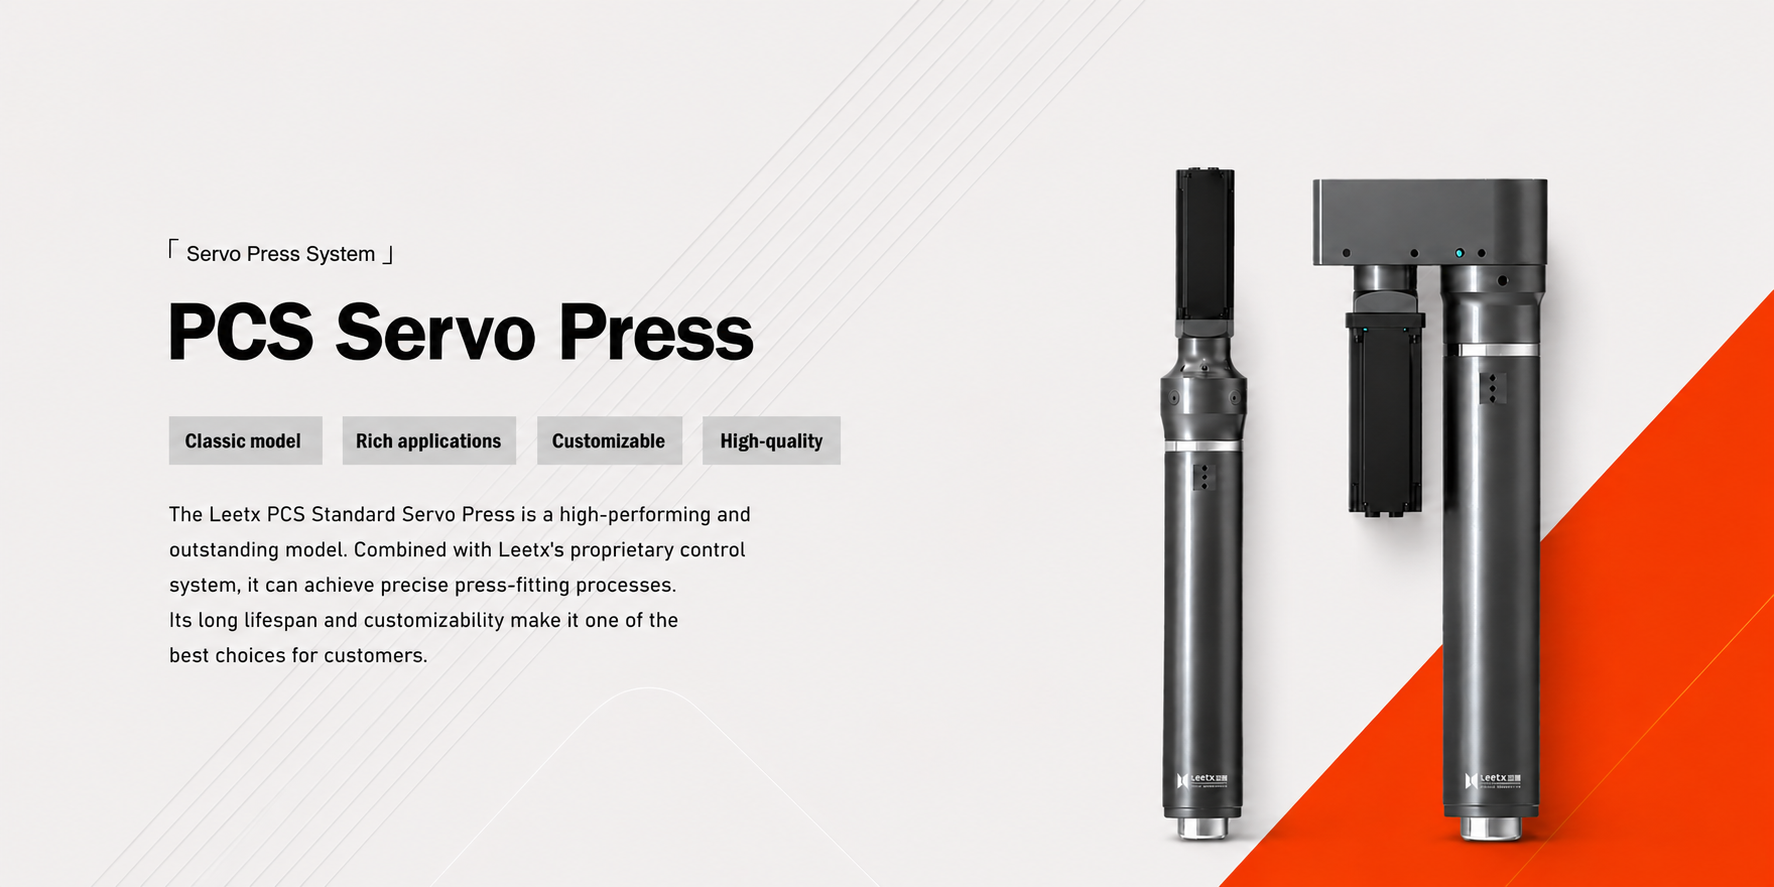
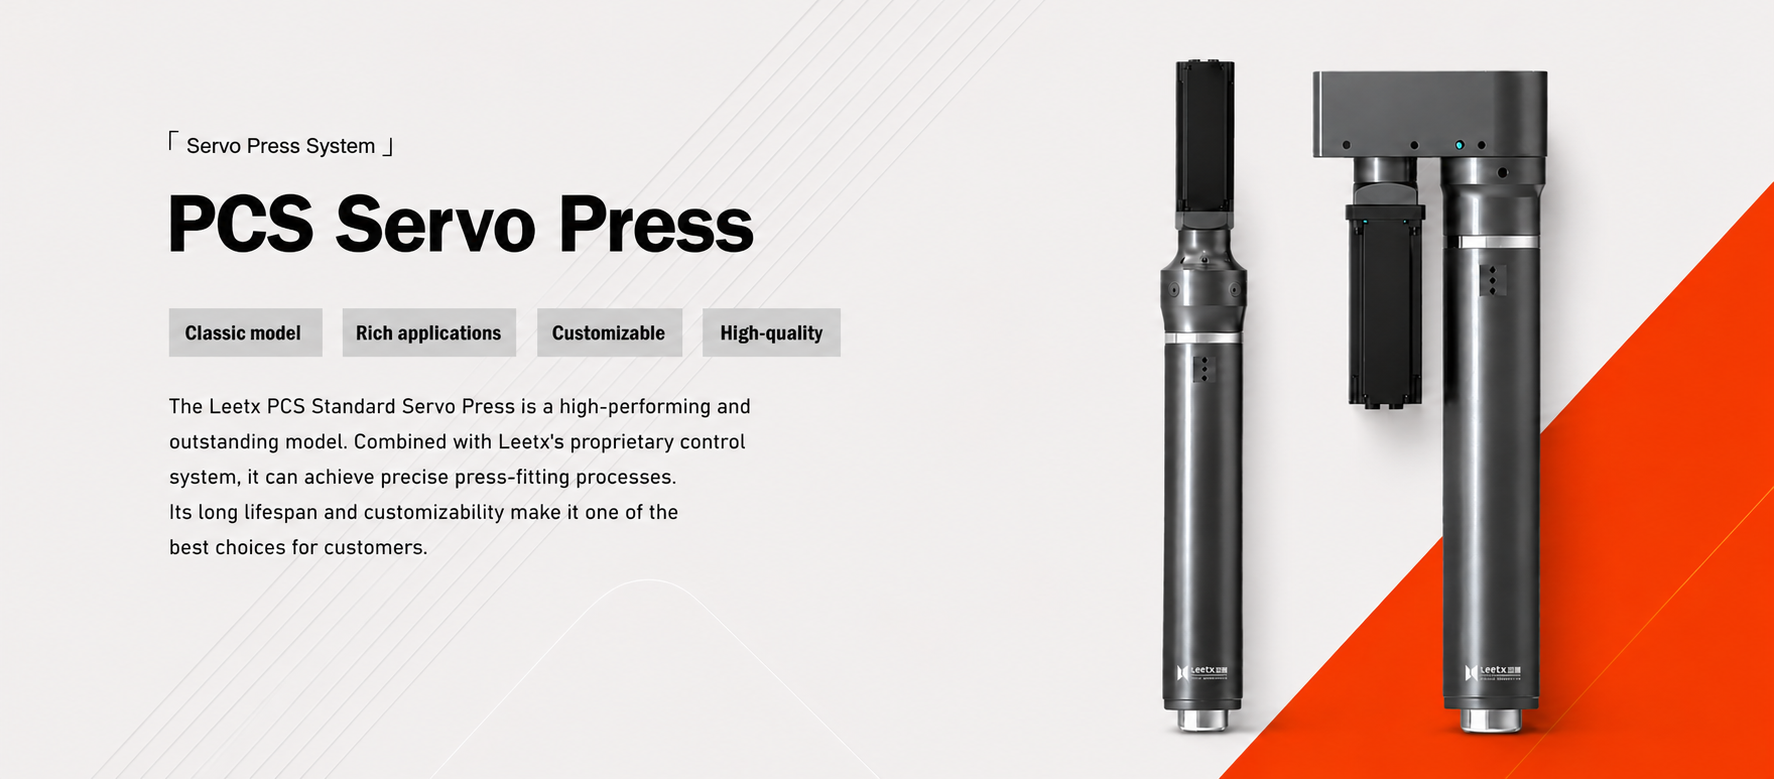
first commit

diff --git a/200l-barrel-pump.html b/200l-barrel-pump.html
@@ -605,6 +605,13 @@
                                 </div>
                             </div>
 
+                            <style>
+                              .fa-map-marker-alt:before {
+    content: "\f3c5";
+    color: #ffffff;
+}
+                            </style>
+
                             <!-- CARD 2 -->
                             <div class="col-lg-4 col-md-6">
                                 <div class="feature-card">

diff --git a/index.html b/index.html
@@ -1782,7 +1782,7 @@ function updateSlideNumber(swiper) {
                   desc: "Centron barrel supply system and pumps deliver medium to high viscosityfluid directly from original packaging barrel to transfer station or meteringsystem to avoid the risks associated with secondary packaging or transferring.",
                   image:
                     "https://www.centronsys.com/en/web/upload/2025/09/08/17572994453611gfld0.png",
-                  link: "200l-feed-platen-pump.html",
+                  link: "200l-barrel-pump.html",
                 },
 
                 {
@@ -1822,7 +1822,7 @@ function updateSlideNumber(swiper) {
                   desc: "Centron transfer system provides material pretreatment in order to deliverymore stable material, enhance metering system stability and enable con-venient replacement of material barrels, without disrupting production.",
                   image:
                     "https://www.centronsys.com/en/web/upload/2024/10/25/172982898633330lytd.png",
-                  link: "transfer-system.html",
+                  link: "transfer-module.html",
                 },
 
                 

diff --git a/about.html b/about.html
@@ -390,7 +390,7 @@
                                 <div class="section-title text-white mb-70">
                                     <span class="sub-title" data-aos="fade-down" data-aos-duration="1000">Our Strength
                                         in Numbers</span>
-                                    <h2 class="text-anm">Delivering Reliable Industrial Automation Solutions</h2>
+                                    <h2 class="text-anm" style="color: #fff;">Delivering Reliable Industrial Automation Solutions</h2>
                                 </div>
                             </div>
                             <!-- <div class="col-lg-6">

diff --git a/controller.html b/controller.html
@@ -822,6 +822,8 @@
   </div>
 </div>
 
+<br>
+
 <script>
   const tabItems = document.querySelectorAll(".tab-item");
   const tabContents = document.querySelectorAll(".tab-content");

diff --git a/efs-fixtured-spindle.html b/efs-fixtured-spindle.html
@@ -262,7 +262,7 @@
                 <!--======  Start Page Hero Section  ======-->
 <div class="single-banner">
     <img 
-        src="assets/images/products/fixtured-spindle.png"
+        src="assets/images/products/fixtured-spindle2.png"
         class="img-fluid"
         alt="banner"
     >

diff --git a/ewa-angle-cordless-nutrunner.html b/ewa-angle-cordless-nutrunner.html
@@ -262,7 +262,7 @@
                 <!--======  Start Page Hero Section  ======-->
 <div class="single-banner">
     <img 
-        src="assets/images/products/ewa-angle.png"
+        src="assets/images/products/ewa-angle2.png"
         class="img-fluid"
         alt="banner"
     >

diff --git a/ewp-pistol-cordless-tool.html b/ewp-pistol-cordless-tool.html
@@ -259,7 +259,7 @@
                 <!--======  Start Page Hero Section  ======-->
 <div class="single-banner">
     <img 
-        src="assets/images/products/cordless-tool.png"
+        src="assets/images/products/cordless-tool2.png"
         class="img-fluid"
         alt="banner"
     >

diff --git a/secondary-pump.html b/secondary-pump.html
@@ -259,7 +259,7 @@
                 <!--======  Start Page Hero Section  ======-->
 <div class="single-banner">
     <img 
-        src="assets/images/products/lower-pump2.png"
+        src="assets/images/products/lower-pump3.png"
         class="img-fluid"
         alt="banner"
     >

diff --git a/wcs-2000-controller.html b/wcs-2000-controller.html
@@ -266,7 +266,7 @@
           <!--======  Start Page Hero Section  ======-->
 <div class="single-banner">
     <img 
-        src="assets/images/products/wcs-controller.png"
+        src="assets/images/products/wcs-controller2.png"
         class="img-fluid"
         alt="banner"
     >